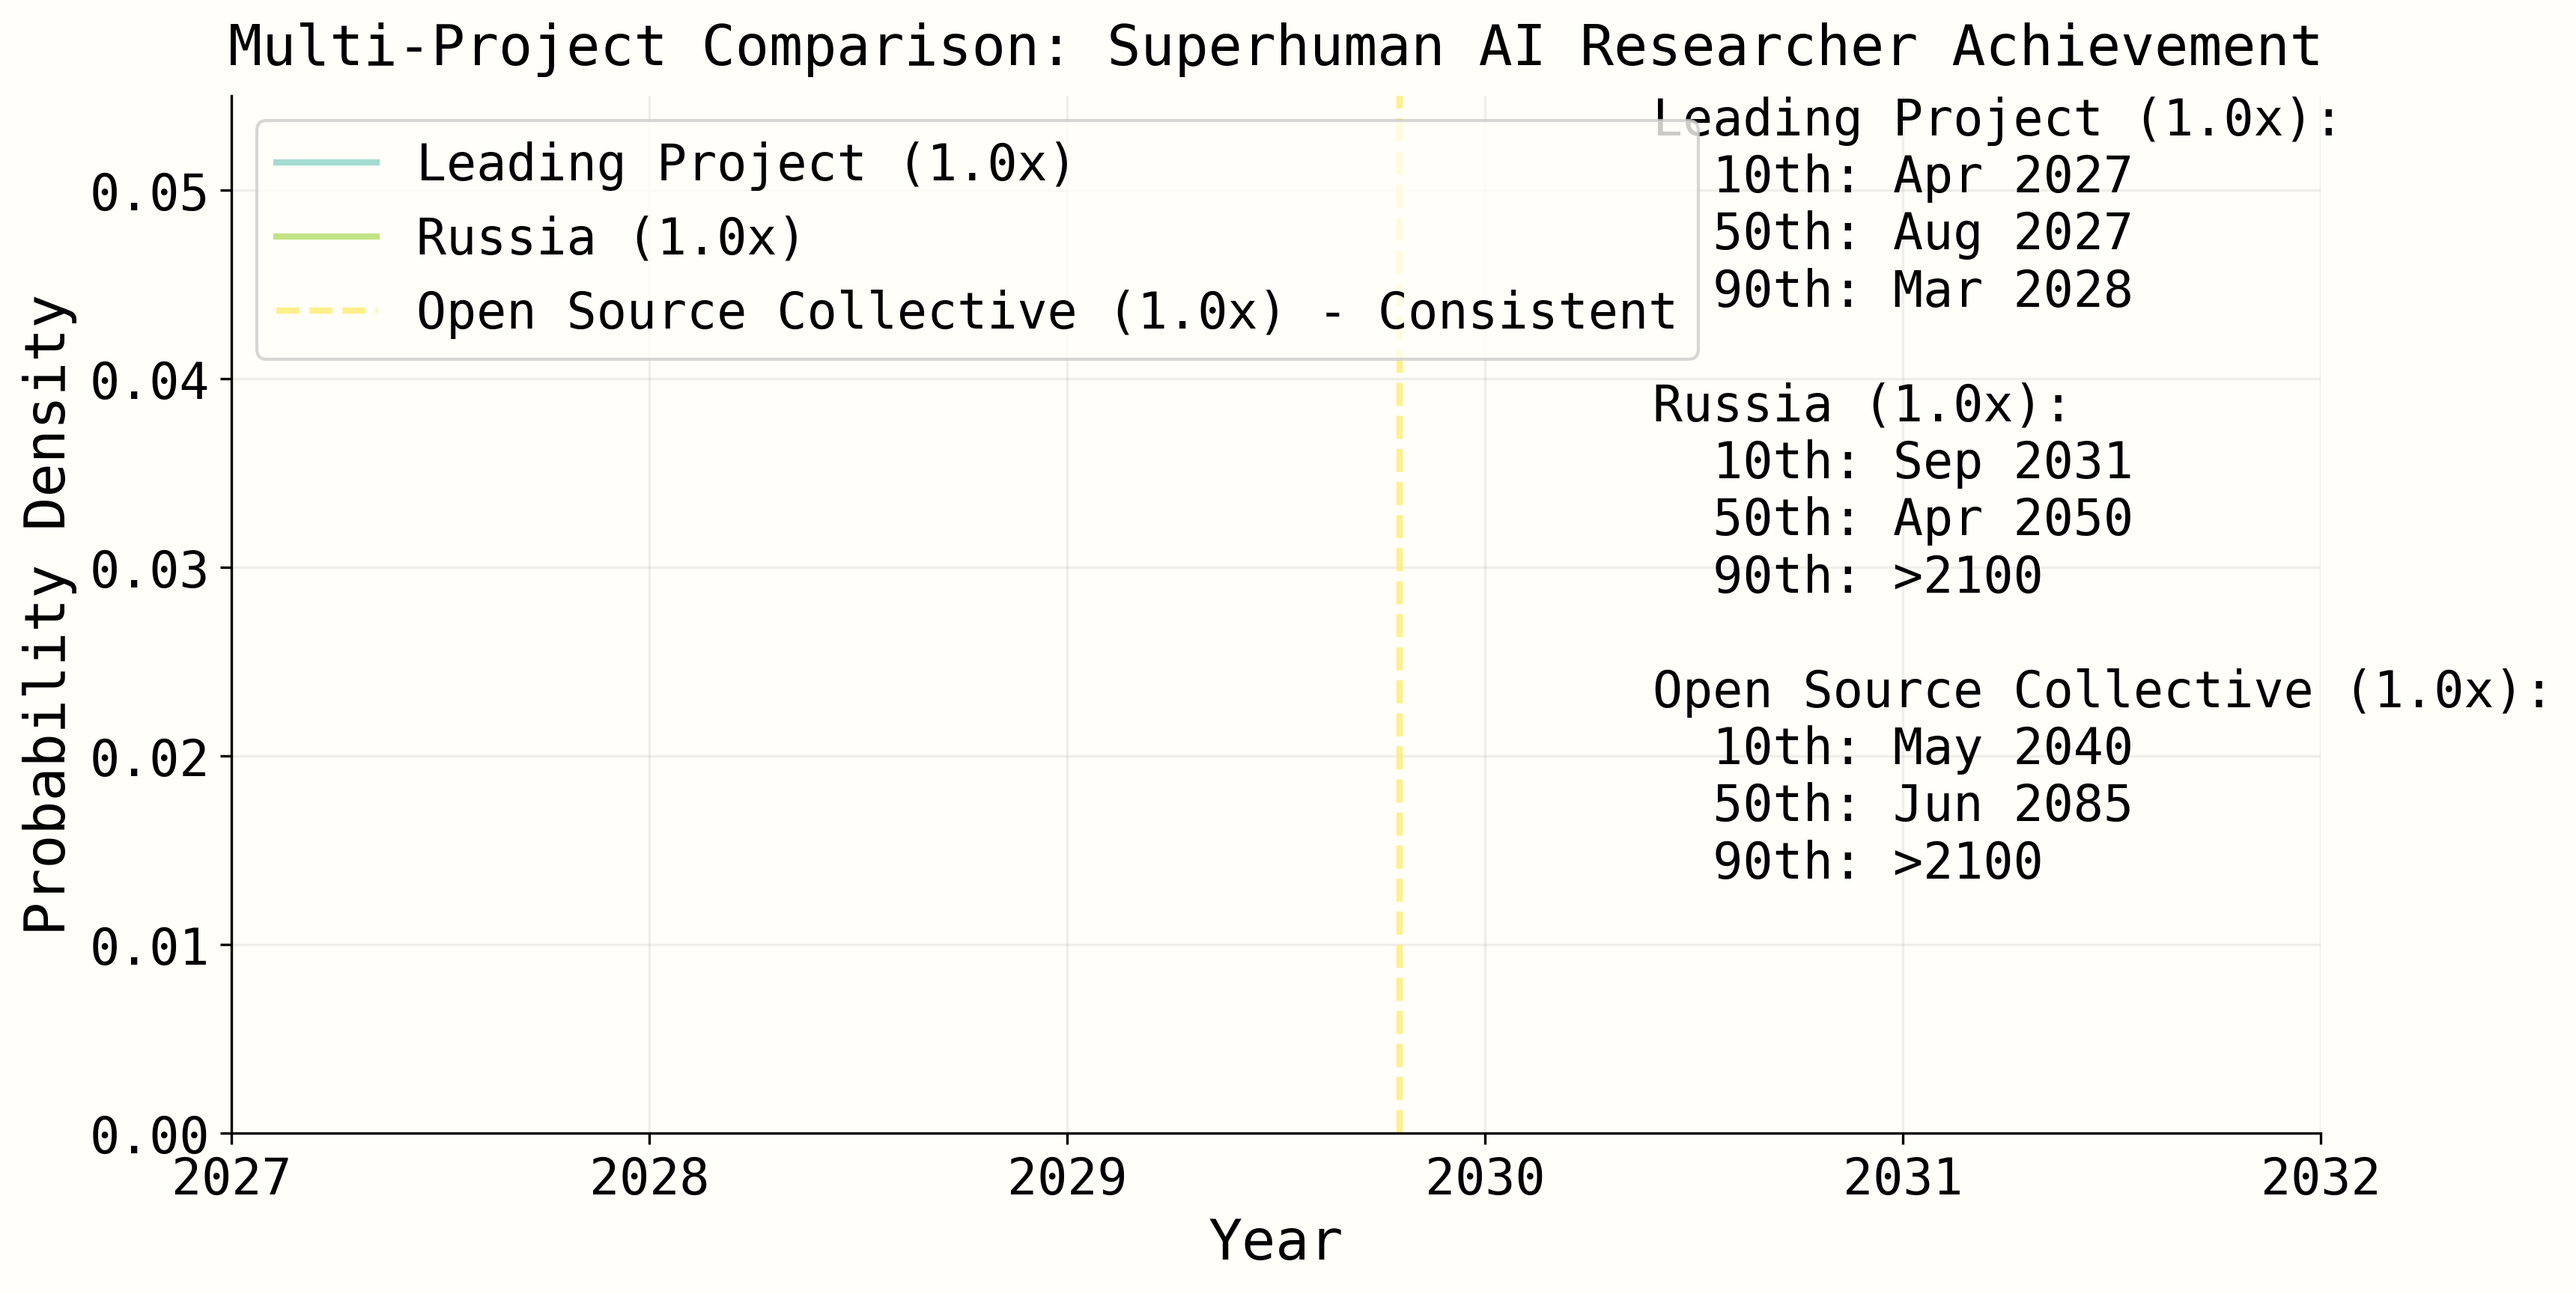
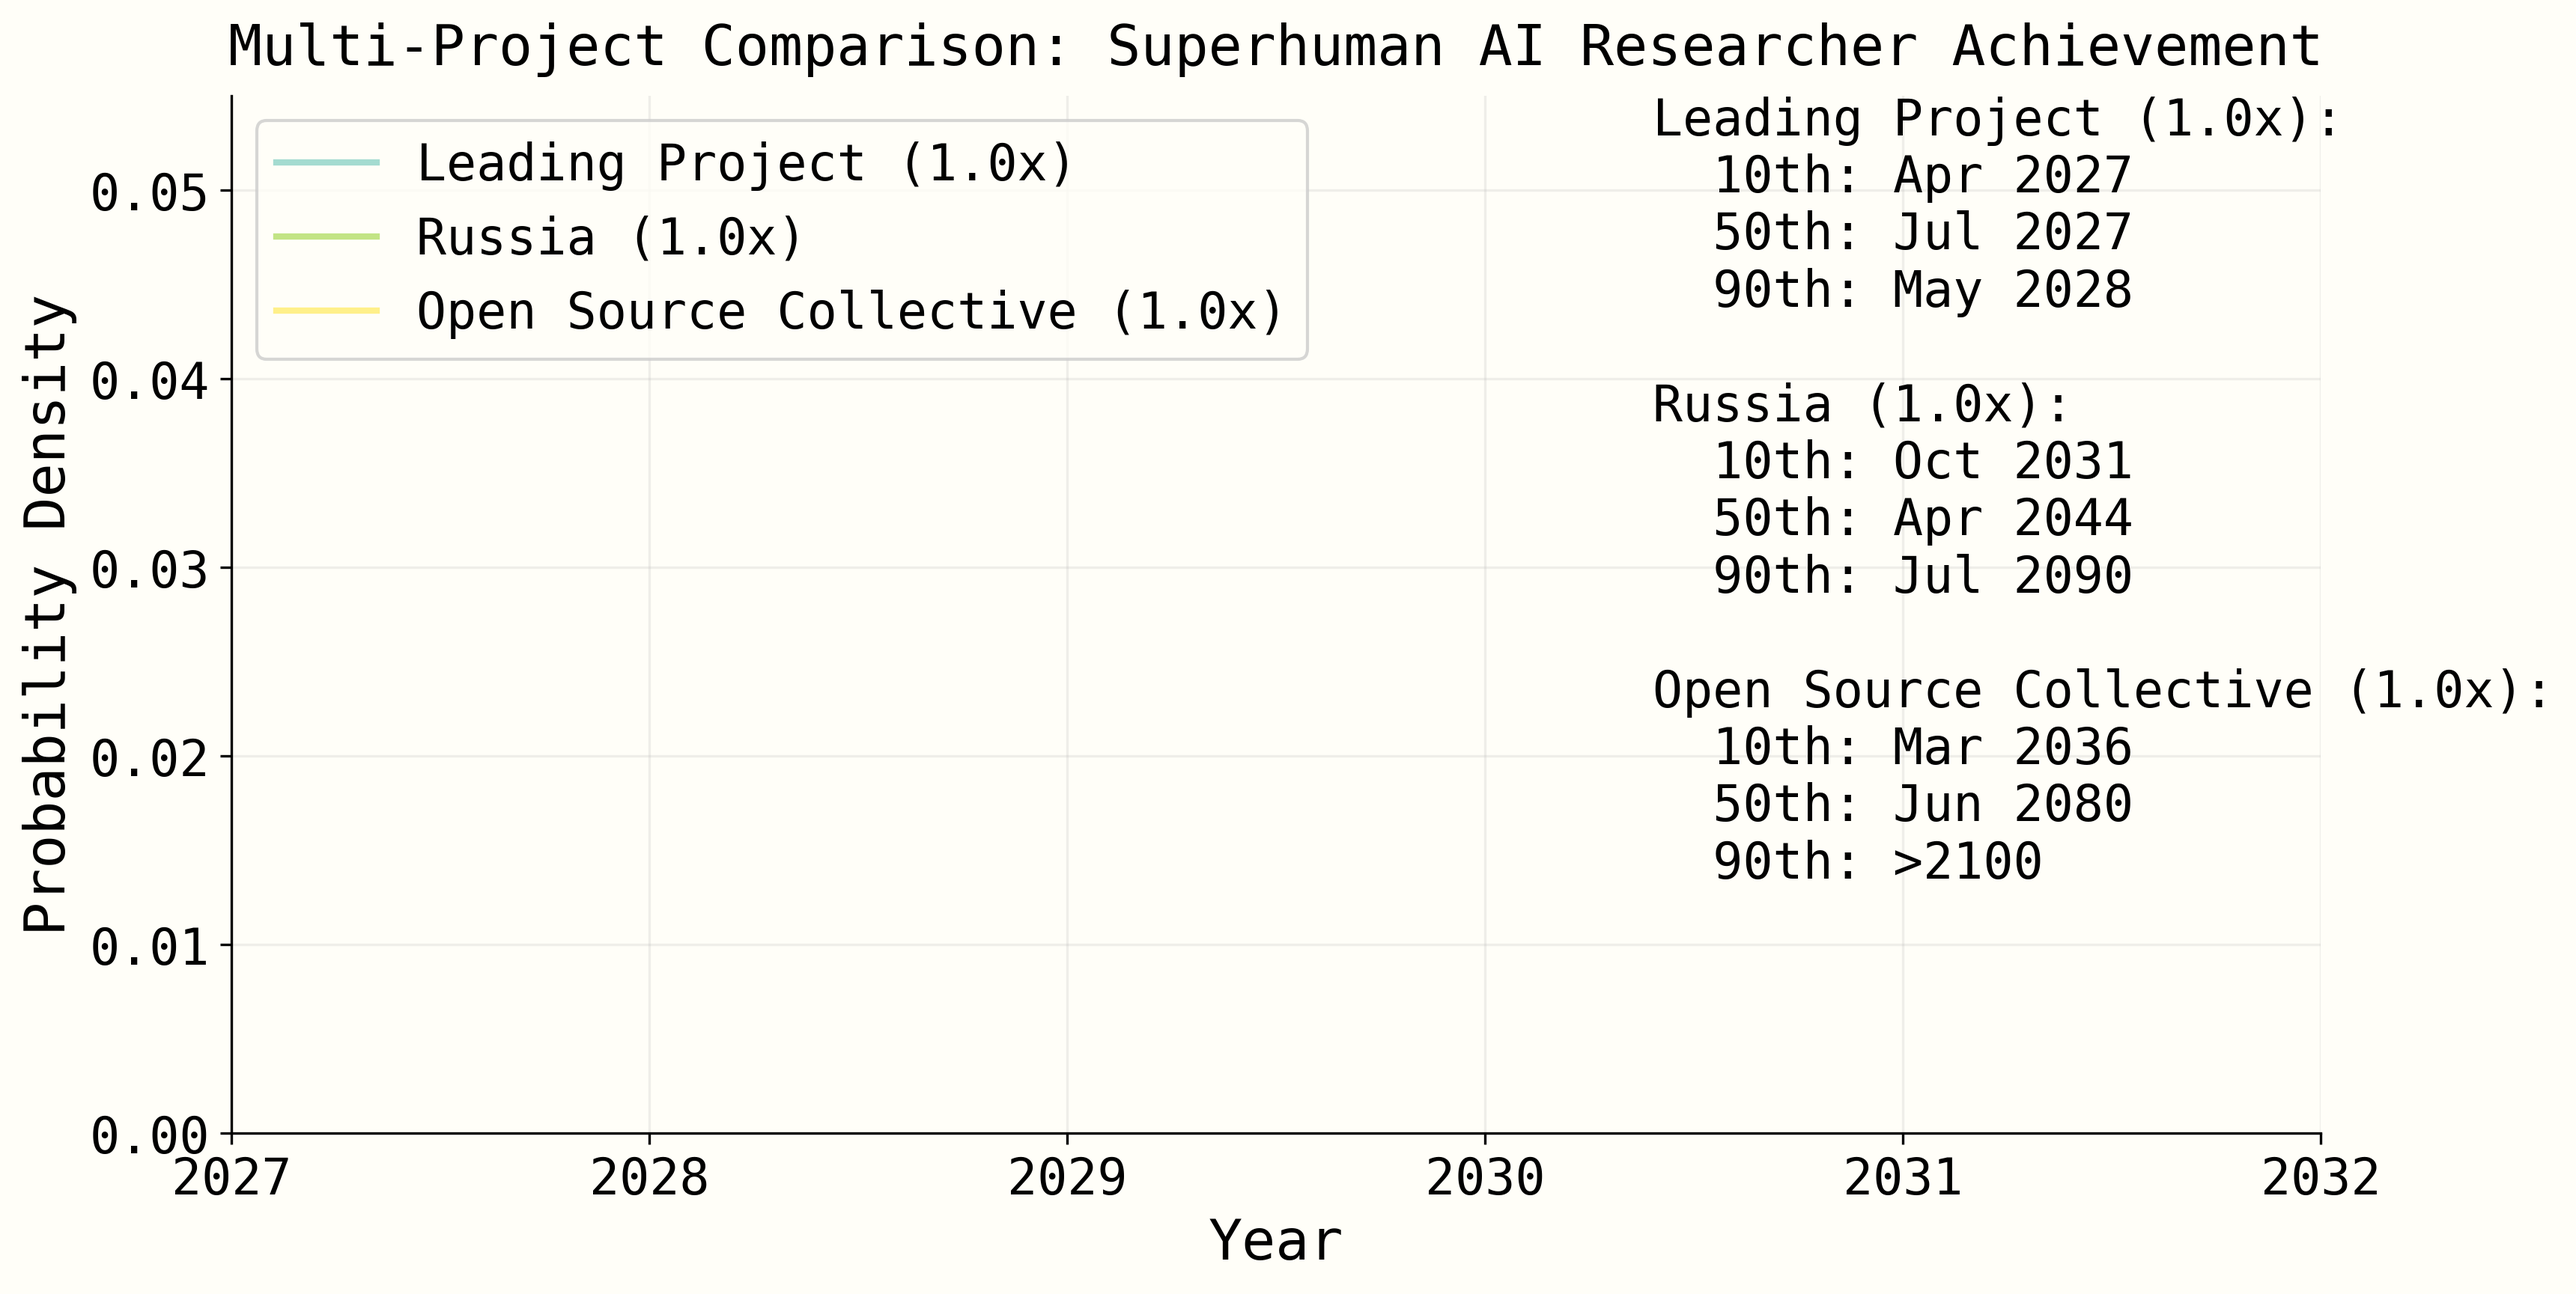
add SC graph

diff --git a/takeoff/forecasting_takeoff.py b/takeoff/forecasting_takeoff.py
@@ -669,6 +669,7 @@ def run_multi_project_takeoff_simulation(config_path: str = "takeoff_params.yaml
     print("\nGenerating plots...")
     fig_multi_timeline = create_multi_project_timeline_plot(all_first_milestone_dates, all_project_results, config, plotting_style, fonts)
     fig_project_delays = create_project_delay_plot(all_project_results, config, plotting_style, fonts, project_progress_samples)
+    fig_sc_timeline = create_project_sc_timeline_plot(all_project_results, config, plotting_style, fonts)
     
     # Also create single-project plots for the fastest project (for comparison)
     fastest_project = min(project_progress_samples.keys(), key=lambda x: 1/np.mean(project_progress_samples[x]))  # Highest mean progress rate
@@ -683,17 +684,14 @@ def run_multi_project_takeoff_simulation(config_path: str = "takeoff_params.yaml
     print("\nSaving plots...")
     fig_multi_timeline.savefig(output_dir / "multi_project_takeoff_timeline.png", dpi=300, bbox_inches="tight")
     fig_project_delays.savefig(output_dir / "project_sar_delays.png", dpi=300, bbox_inches="tight")
+    fig_sc_timeline.savefig(output_dir / "project_sc_timeline.png", dpi=300, bbox_inches="tight")
     fig_fastest_timeline.savefig(output_dir / f"fastest_project_{fastest_project.replace(' ', '_')}_timeline.png", dpi=300, bbox_inches="tight")
     fig_fastest_phases.savefig(output_dir / f"fastest_project_{fastest_project.replace(' ', '_')}_phases.png", dpi=300, bbox_inches="tight")
     
     # Close figures to free memory
     plt.close("all")
     
-    return fig_multi_timeline, {
-        "first_milestone_dates": all_first_milestone_dates,
-        "project_results": all_project_results,
-        "project_phase_durations": all_project_phase_durations
-    }
+    return fig_multi_timeline, {"milestone_dates": all_first_milestone_dates}
 
 def setup_plotting_style(plotting_style: dict):
     """Set up matplotlib style according to config."""
@@ -1589,21 +1587,31 @@ def run_takeoff_simulation(config_path: str = "takeoff_params.yaml") -> tuple[pl
     
     # Create plots
     print("\nGenerating plots...")
-    fig_timeline = create_milestone_timeline_plot(all_milestone_dates, config, plotting_style, fonts)
-    fig_phases = create_phase_duration_plot(all_milestone_dates, config, plotting_style, fonts)
+    fig_multi_timeline = create_multi_project_timeline_plot(all_first_milestone_dates, all_project_results, config, plotting_style, fonts)
+    fig_project_delays = create_project_delay_plot(all_project_results, config, plotting_style, fonts, project_progress_samples)
+    fig_sc_timeline = create_project_sc_timeline_plot(all_project_results, config, plotting_style, fonts)
+    
+    # Also create single-project plots for the fastest project (for comparison)
+    fastest_project = min(project_progress_samples.keys(), key=lambda x: 1/np.mean(project_progress_samples[x]))  # Highest mean progress rate
+    fastest_milestone_dates = [results[fastest_project] for results in all_project_results]
+    fig_fastest_timeline = create_milestone_timeline_plot(fastest_milestone_dates, config, plotting_style, fonts)
+    fig_fastest_phases = create_phase_duration_plot(fastest_milestone_dates, config, plotting_style, fonts)
     
     # Create output directory if it doesn't exist
     output_dir = Path("figures")
     output_dir.mkdir(parents=True, exist_ok=True)
     
     print("\nSaving plots...")
-    fig_timeline.savefig(output_dir / "takeoff_timeline.png", dpi=300, bbox_inches="tight")
-    fig_phases.savefig(output_dir / "phase_durations.png", dpi=300, bbox_inches="tight")
+    fig_multi_timeline.savefig(output_dir / "multi_project_takeoff_timeline.png", dpi=300, bbox_inches="tight")
+    fig_project_delays.savefig(output_dir / "project_sar_delays.png", dpi=300, bbox_inches="tight")
+    fig_sc_timeline.savefig(output_dir / "project_sc_timeline.png", dpi=300, bbox_inches="tight")
+    fig_fastest_timeline.savefig(output_dir / f"fastest_project_{fastest_project.replace(' ', '_')}_timeline.png", dpi=300, bbox_inches="tight")
+    fig_fastest_phases.savefig(output_dir / f"fastest_project_{fastest_project.replace(' ', '_')}_phases.png", dpi=300, bbox_inches="tight")
     
     # Close figures to free memory
     plt.close("all")
     
-    return fig_timeline, {"milestone_dates": all_milestone_dates}
+    return fig_multi_timeline, {"milestone_dates": all_first_milestone_dates}
 
 def validate_phase_durations(all_milestone_dates, all_phase_durations, start_date):
     """Validate phase durations from simulation match direct calculation.
@@ -1646,6 +1654,174 @@ def validate_phase_durations(all_milestone_dates, all_phase_durations, start_dat
             if abs(stored - calculated) > 0.1:  # Allow small difference
                 if first_mismatch is None:
                     first_mismatch = (sim_idx, phase_idx, stored, calculated)
+
+def create_project_sc_timeline_plot(all_project_results: list[dict], config: dict, plotting_style: dict, fonts: dict) -> plt.Figure:
+    """Create timeline plot showing SC achievement distributions for multiple projects.
+    
+    Args:
+        all_project_results: List of project results for each simulation
+        config: Configuration dictionary
+        plotting_style: Plotting style configuration
+        fonts: Font configuration
+    """
+    # Get background color
+    background_color = "#FFFEF8"
+    bg_rgb = tuple(int(background_color.lstrip('#')[i:i+2], 16)/255 for i in (0, 2, 4))
+    
+    fig = plt.figure(figsize=(12, 6), dpi=150, facecolor=bg_rgb)
+    ax = fig.add_subplot(111)
+    ax.set_facecolor(bg_rgb)
+    
+    # Project comparison - show SC distributions for each project
+    projects = list(config["projects"].keys())
+    project_colors = plt.cm.Set3(np.linspace(0, 1, len(projects)))
+    
+    # Extend the graph range to show full distributions
+    MAX_GRAPH_YEAR = 2050  # Extended to show more of the distributions
+    start_year = float(config["starting_time"].split()[-1])
+    
+    # Plot SC distributions for each project
+    stats_text = ""
+    for proj_idx, project_name in enumerate(projects):
+        project_sc_times = []
+        for sim_results in all_project_results:
+            if project_name in sim_results and len(sim_results[project_name]) > 0:
+                sc_date = sim_results[project_name][0]  # SC is at index 0
+                if sc_date.year < 9999:  # Filter out capped values
+                    project_sc_times.append(sc_date.year + sc_date.timetuple().tm_yday/365)
+        
+        if project_sc_times and len(project_sc_times) > 5:  # Lower threshold
+            # Calculate percentiles for stats
+            p10 = np.percentile(project_sc_times, 10)
+            p50 = np.percentile(project_sc_times, 50)
+            p90 = np.percentile(project_sc_times, 90)
+            
+            # Convert decimal years to month and year format for display
+            def year_to_date(year):
+                year_int = int(year)
+                if year_int > 9999:
+                    return f"{year_int}"
+                month = int((year - year_int) * 12) + 1
+                month_name = datetime(year_int, month, 1).strftime('%b')
+                return f"{month_name} {year_int}"
+            
+            # Filter data to visible range - use most of the data
+            visible_data = [x for x in project_sc_times if x <= MAX_GRAPH_YEAR]
+            
+            if visible_data:
+                # Check if we need special handling for Leading Project (all same values)
+                unique_visible = len(set(visible_data))
+                
+                if unique_visible <= 1:
+                    # All values are the same - plot vertical line
+                    median_sc = visible_data[0]
+                    ax.axvline(x=median_sc, color=project_colors[proj_idx], linestyle='-', linewidth=3,
+                             alpha=0.8, label=f"{project_name}", zorder=2)
+                    
+                elif unique_visible < 5:
+                    # Too few unique values for KDE, use histogram
+                    data_min = min(visible_data)
+                    data_max = max(visible_data)
+                    if data_max > data_min:
+                        bins = min(unique_visible, 10)
+                        hist, bin_edges = np.histogram(visible_data, bins=bins, density=True)
+                        bin_centers = (bin_edges[:-1] + bin_edges[1:]) / 2
+                        
+                        # Plot as step function
+                        ax.step(bin_centers, hist, where='mid', color=project_colors[proj_idx], 
+                               label=f"{project_name}", linewidth=2, alpha=0.8)
+                        ax.fill_between(bin_centers, hist, step='mid', color=project_colors[proj_idx], alpha=0.2)
+                    else:
+                        # Fallback to vertical line
+                        ax.axvline(x=data_min, color=project_colors[proj_idx], linestyle='-', linewidth=3,
+                                 alpha=0.8, label=f"{project_name}", zorder=2)
+                        
+                else:
+                    # Enough unique values for KDE
+                    try:
+                        kde = gaussian_kde(visible_data)
+                        
+                        # Create x range for plotting
+                        data_min = min(visible_data)
+                        data_max = max(visible_data)
+                        x_range = np.linspace(max(start_year, data_min - 0.5), min(MAX_GRAPH_YEAR, data_max + 0.5), 1000)
+                        density = kde(x_range)
+                        
+                        # Normalize density
+                        density_sum = np.sum(density)
+                        if density_sum > 0:
+                            density = density / density_sum * (len(visible_data) / len(project_sc_times))
+                        else:
+                            density = np.zeros_like(density)
+                        
+                        # Plot distribution
+                        ax.plot(x_range, density, '-', color=project_colors[proj_idx], 
+                               label=f"{project_name}", linewidth=2, alpha=0.8)
+                        ax.fill_between(x_range, density, color=project_colors[proj_idx], alpha=0.2)
+                        
+                    except (np.linalg.LinAlgError, ValueError) as e:
+                        # KDE failed, use histogram instead
+                        bins = min(20, unique_visible)
+                        hist, bin_edges = np.histogram(visible_data, bins=bins, density=True)
+                        bin_centers = (bin_edges[:-1] + bin_edges[1:]) / 2
+                        
+                        # Plot as step function
+                        ax.step(bin_centers, hist, where='mid', color=project_colors[proj_idx], 
+                               label=f"{project_name}", linewidth=2, alpha=0.8)
+                        ax.fill_between(bin_centers, hist, step='mid', color=project_colors[proj_idx], alpha=0.2)
+                
+                # Add to stats text
+                if (p90 > 2100):
+                    stats = (
+                        f"{project_name}:\n"
+                        f"  10th: {year_to_date(p10)}\n"
+                        f"  50th: {year_to_date(p50)}\n"
+                        f"  90th: >2100"
+                    )
+                else:
+                    stats = (
+                        f"{project_name}:\n"
+                        f"  10th: {year_to_date(p10)}\n"
+                        f"  50th: {year_to_date(p50)}\n"
+                        f"  90th: {year_to_date(p90)}"
+                    )
+                
+                if proj_idx == 0:
+                    stats_text = stats
+                else:
+                    stats_text += f"\n\n{stats}"
+    
+    # Add stats text
+    text = ax.text(0.68, 1, stats_text,
+            transform=ax.transAxes,
+            verticalalignment='top',
+            horizontalalignment='left',
+            fontsize=plotting_style["font"]["sizes"]["small"])
+    text.set_fontproperties(fonts['regular_legend'])
+    
+    # Configure plot styling
+    ax.set_xlim(start_year, MAX_GRAPH_YEAR)
+    ax.set_ylim(0, None)
+    ax.set_xlabel("Year", fontsize=plotting_style["font"]["sizes"]["axis_labels"])
+    ax.set_ylabel("Probability Density", fontsize=plotting_style["font"]["sizes"]["axis_labels"])
+    ax.set_title("Multi-Project Comparison: Superhuman Coder Achievement", 
+                 fontsize=plotting_style["font"]["sizes"]["title"], pad=10)
+    
+    # Add grid and styling
+    ax.grid(True, alpha=0.2, zorder=0)
+    ax.set_axisbelow(True)
+    ax.spines['top'].set_visible(False)
+    ax.spines['right'].set_visible(False)
+    
+    # Add legend
+    legend = ax.legend(loc='upper left', fontsize=plotting_style["font"]["sizes"]["legend"])
+    for text in legend.get_texts():
+        text.set_fontproperties(fonts['regular_legend'])
+    
+    # Configure ticks
+    ax.tick_params(axis="both", labelsize=plotting_style["font"]["sizes"]["ticks"])
+
+    return fig
 
 if __name__ == "__main__":
     run_multi_project_takeoff_simulation()
